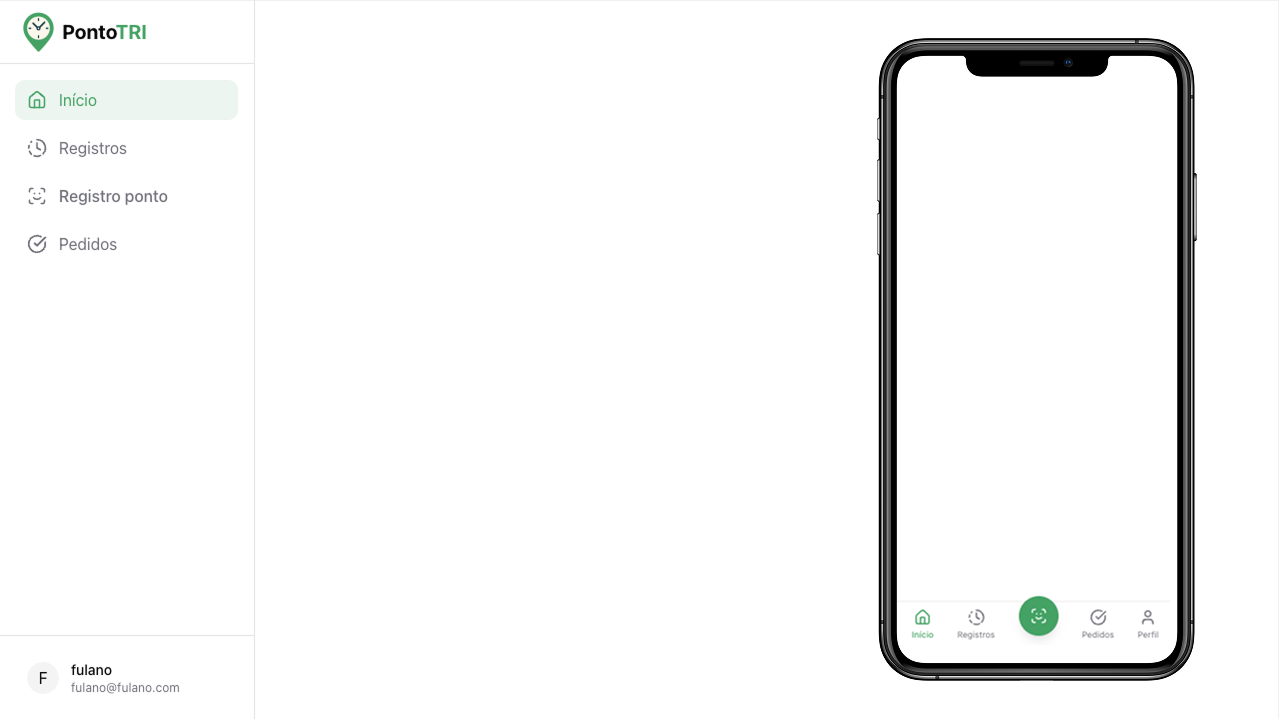
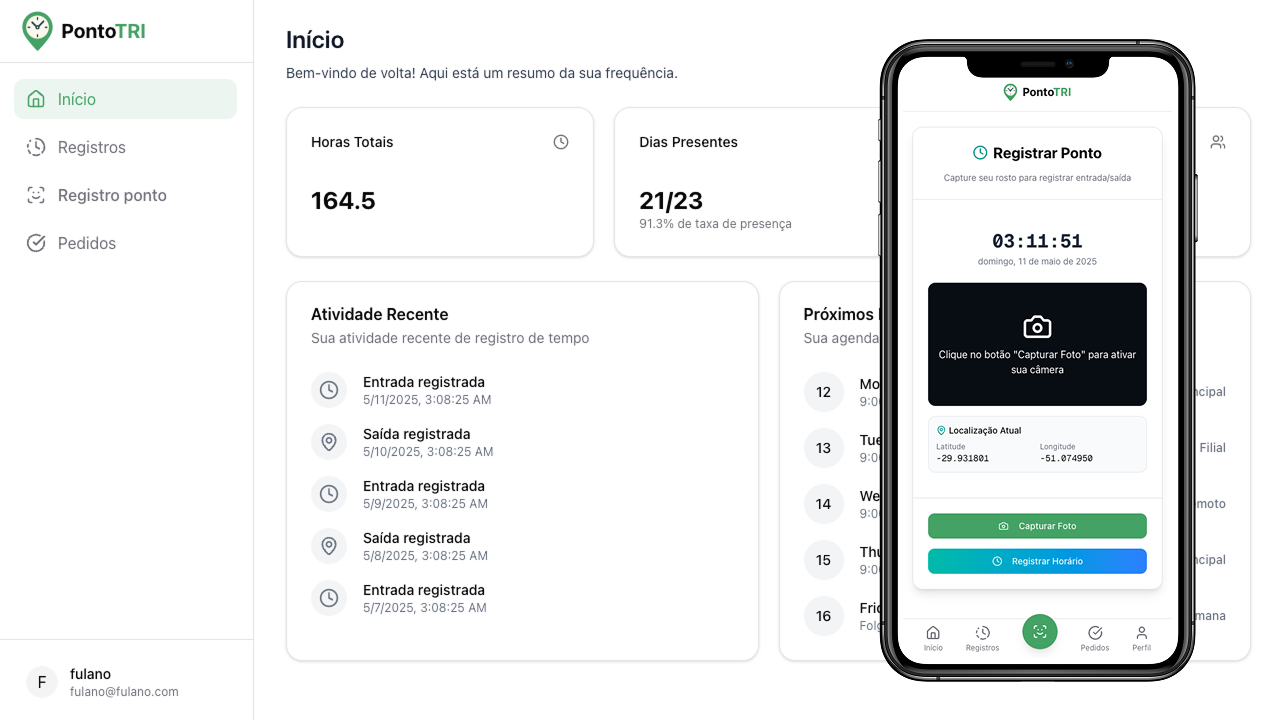
feat: ui pregress

diff --git a/src/components/webcam-capture.tsx b/src/components/webcam-capture.tsx
@@ -19,17 +19,17 @@ export function WebcamCapture({ onCapture, isCapturing }: WebcamCaptureProps) {
 
   useEffect(() => {
     if (isCapturing) {
-      startCamera();
+      iniciarCamera();
     } else {
-      stopCamera();
+      pararCamera();
     }
 
     return () => {
-      stopCamera();
+      pararCamera();
     };
   }, [isCapturing]);
 
-  const startCamera = async () => {
+  const iniciarCamera = async () => {
     setCameraError(null);
     try {
       const mediaStream = await navigator.mediaDevices.getUserMedia({
@@ -43,12 +43,14 @@ export function WebcamCapture({ onCapture, isCapturing }: WebcamCaptureProps) {
 
       setStream(mediaStream);
     } catch (err) {
-      console.error("Error accessing camera:", err);
-      setCameraError("Unable to access camera. Please check permissions.");
+      console.error("Erro ao acessar a câmera:", err);
+      setCameraError(
+        "Não foi possível acessar a câmera. Verifique as permissões."
+      );
     }
   };
 
-  const stopCamera = () => {
+  const pararCamera = () => {
     if (stream) {
       stream.getTracks().forEach((track) => track.stop());
       setStream(null);
@@ -59,14 +61,14 @@ export function WebcamCapture({ onCapture, isCapturing }: WebcamCaptureProps) {
     }
   };
 
-  const capturePhoto = () => {
+  const capturarFoto = () => {
     setCountdown(3);
 
-    const countdownInterval = setInterval(() => {
+    const contadorInterval = setInterval(() => {
       setCountdown((prev) => {
         if (prev === 1) {
-          clearInterval(countdownInterval);
-          takeSnapshot();
+          clearInterval(contadorInterval);
+          tirarFoto();
           return null;
         }
         return prev ? prev - 1 : null;
@@ -74,7 +76,7 @@ export function WebcamCapture({ onCapture, isCapturing }: WebcamCaptureProps) {
     }, 1000);
   };
 
-  const takeSnapshot = () => {
+  const tirarFoto = () => {
     if (videoRef.current && canvasRef.current) {
       const video = videoRef.current;
       const canvas = canvasRef.current;
@@ -96,7 +98,7 @@ export function WebcamCapture({ onCapture, isCapturing }: WebcamCaptureProps) {
       <div className="w-full h-full flex items-center justify-center">
         <Alert variant="destructive" className="max-w-xs">
           <AlertCircle className="h-4 w-4" />
-          <AlertTitle>Error</AlertTitle>
+          <AlertTitle>Erro</AlertTitle>
           <AlertDescription>{cameraError}</AlertDescription>
         </Alert>
       </div>
@@ -128,14 +130,14 @@ export function WebcamCapture({ onCapture, isCapturing }: WebcamCaptureProps) {
           <div className="absolute inset-0 bg-gradient-to-t from-black/70 to-transparent"></div>
           <div className="absolute bottom-0 left-0 right-0 p-4 text-center text-white">
             <p className="text-lg font-medium mb-4">
-              Smile and get ready to clock in!
+              Sorria e prepare-se para bater o ponto!
             </p>
             <Button
-              onClick={capturePhoto}
+              onClick={capturarFoto}
               className="bg-white text-black hover:bg-white/90"
             >
               <Camera className="mr-2 h-4 w-4" />
-              Take Photo
+              Tirar Foto
             </Button>
           </div>
         </div>

diff --git a/src/components/location-display.tsx b/src/components/location-display.tsx
@@ -15,7 +15,7 @@ export function LocationDisplay() {
 
   useEffect(() => {
     if (!navigator.geolocation) {
-      setError("Geolocation is not supported by your browser");
+      setError("Geolocalização não é suportada pelo seu navegador");
       setLoading(false);
       return;
     }
@@ -35,8 +35,10 @@ export function LocationDisplay() {
     };
 
     const errorHandler = (err: GeolocationPositionError) => {
-      console.error("Error getting location:", err);
-      setError("Unable to retrieve your location. Please check permissions.");
+      console.error("Erro ao obter localização:", err);
+      setError(
+        "Não foi possível obter sua localização. Verifique as permissões."
+      );
       setLoading(false);
     };
 
@@ -55,7 +57,7 @@ export function LocationDisplay() {
     <div className="mt-4 p-3 bg-gray-50 rounded-lg border border-gray-200">
       <div className="flex items-center mb-2">
         <MapPin className="h-4 w-4 text-teal-600 mr-1" />
-        <h3 className="text-sm font-medium">Current Location</h3>
+        <h3 className="text-sm font-medium">Localização Atual</h3>
       </div>
 
       {loading ? (

diff --git a/src/app/(private)/profile/page.tsx b/src/app/(private)/profile/page.tsx
@@ -27,6 +27,7 @@ import { Input } from "@/components/ui/input";
 import { Label } from "@/components/ui/label";
 import { Tabs, TabsContent, TabsList, TabsTrigger } from "@/components/ui/tabs";
 import { Camera, Edit, Key, User } from "lucide-react";
+import Link from "next/link";
 import { useState } from "react";
 
 export default function ProfilePage() {
@@ -239,9 +240,11 @@ export default function ProfilePage() {
           </div>
         </CardContent>
         <CardFooter>
-          <Button variant="outline" className="w-full">
-            Ver todas as atividades
-          </Button>
+          <Link href="registers" className="w-full">
+            <Button variant="outline" className="w-full">
+              Ver todas as atividades
+            </Button>
+          </Link>
         </CardFooter>
       </Card>
 

diff --git a/src/app/(private)/check-in/page.tsx b/src/app/(private)/check-in/page.tsx
@@ -111,7 +111,8 @@ export default function CheckInPage() {
         <CardFooter className="flex flex-col gap-4 border-t pt-4">
           {!capturedImage && !checkInSuccess && (
             <Button
-              className="w-full bg-teal-600 hover:bg-teal-700"
+              className="w-full"
+              size="lg"
               onClick={() => setIsCapturing(true)}
             >
               <Camera className="mr-2 h-4 w-4" />
@@ -121,6 +122,7 @@ export default function CheckInPage() {
 
           <Button
             className="w-full bg-gradient-to-r from-teal-500 to-blue-500 hover:from-teal-600 hover:to-blue-600"
+            size="lg"
             onClick={handleRegisterTime}
             disabled={isSubmitting || checkInSuccess}
           >

diff --git a/src/components/side-navigation.tsx b/src/components/side-navigation.tsx
@@ -109,7 +109,7 @@ export function SideNavigation({ className }: SideNavigationProps) {
                 className="flex cursor-pointer items-center"
               >
                 <User className="mr-2 h-4 w-4" />
-                <span>Profile</span>
+                <span>Perfil</span>
               </Link>
             </DropdownMenuItem>
             <DropdownMenuItem
@@ -117,7 +117,7 @@ export function SideNavigation({ className }: SideNavigationProps) {
               onClick={() => {}}
             >
               <LogOut className="mr-2 h-4 w-4" />
-              <span>Exit</span>
+              <span>Sair</span>
             </DropdownMenuItem>
           </DropdownMenuContent>
         </DropdownMenu>

diff --git a/src/components/time-display.tsx b/src/components/time-display.tsx
@@ -1,6 +1,7 @@
 "use client";
 
 import { format } from "date-fns";
+import { ptBR } from "date-fns/locale";
 import { useEffect, useState } from "react";
 
 export function TimeDisplay() {
@@ -22,7 +23,7 @@ export function TimeDisplay() {
         {format(currentTime, "HH:mm:ss")}
       </div>
       <div className="text-sm text-gray-500 mt-1">
-        {format(currentTime, "EEEE, MMMM d, yyyy")}
+        {format(currentTime, "EEEE, dd 'de' MMMM 'de' yyyy", { locale: ptBR })}
       </div>
     </div>
   );

diff --git a/src/components/main-navigation.tsx b/src/components/main-navigation.tsx
@@ -36,12 +36,12 @@ export const menuItems: MenuItemProps[] = [
   {
     icon: ClockFading,
     label: "Registros",
-    href: "/records",
+    href: "/registers",
   },
   {
     icon: ScanFace,
     label: "Registro ponto",
-    href: "/register",
+    href: "/check-in",
     isPrincipal: true,
   },
   {
